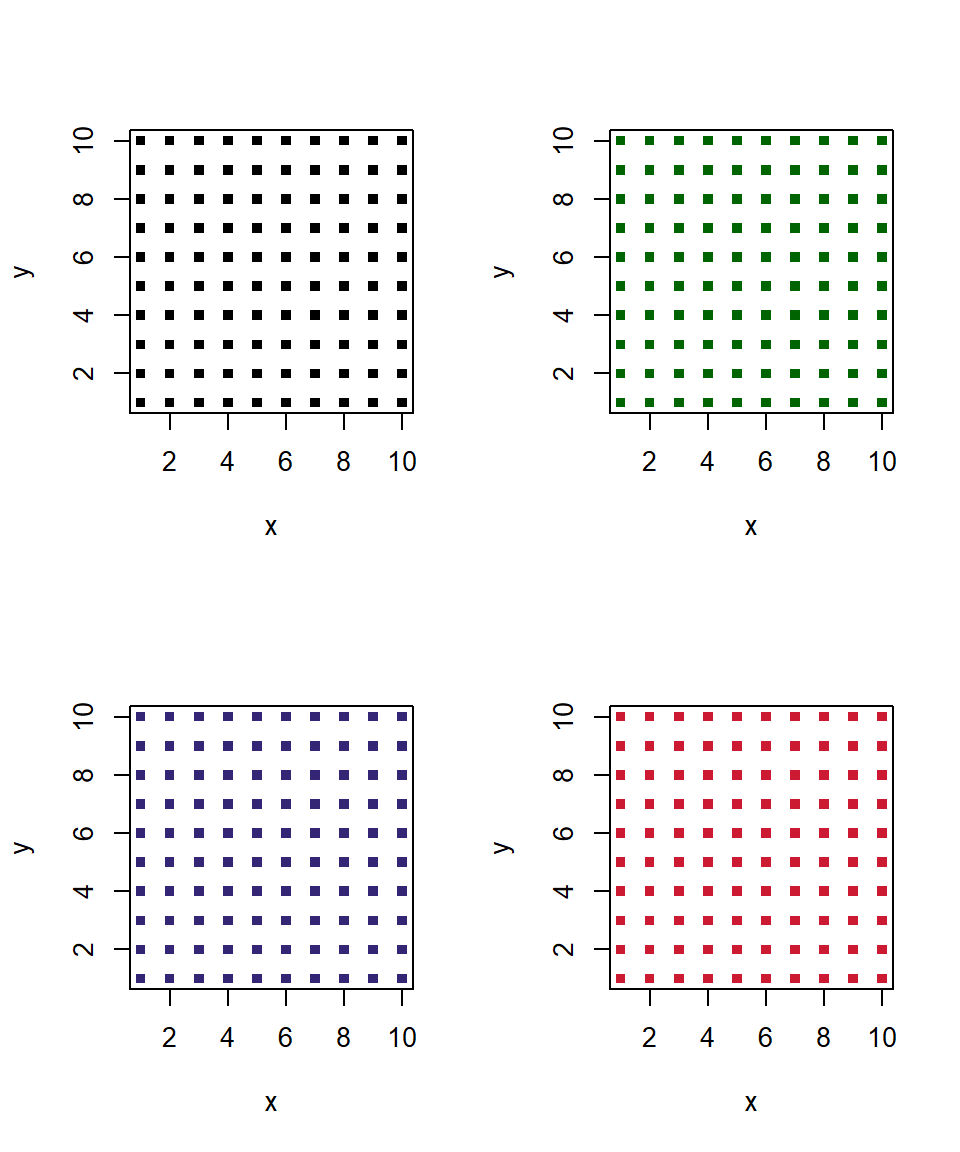
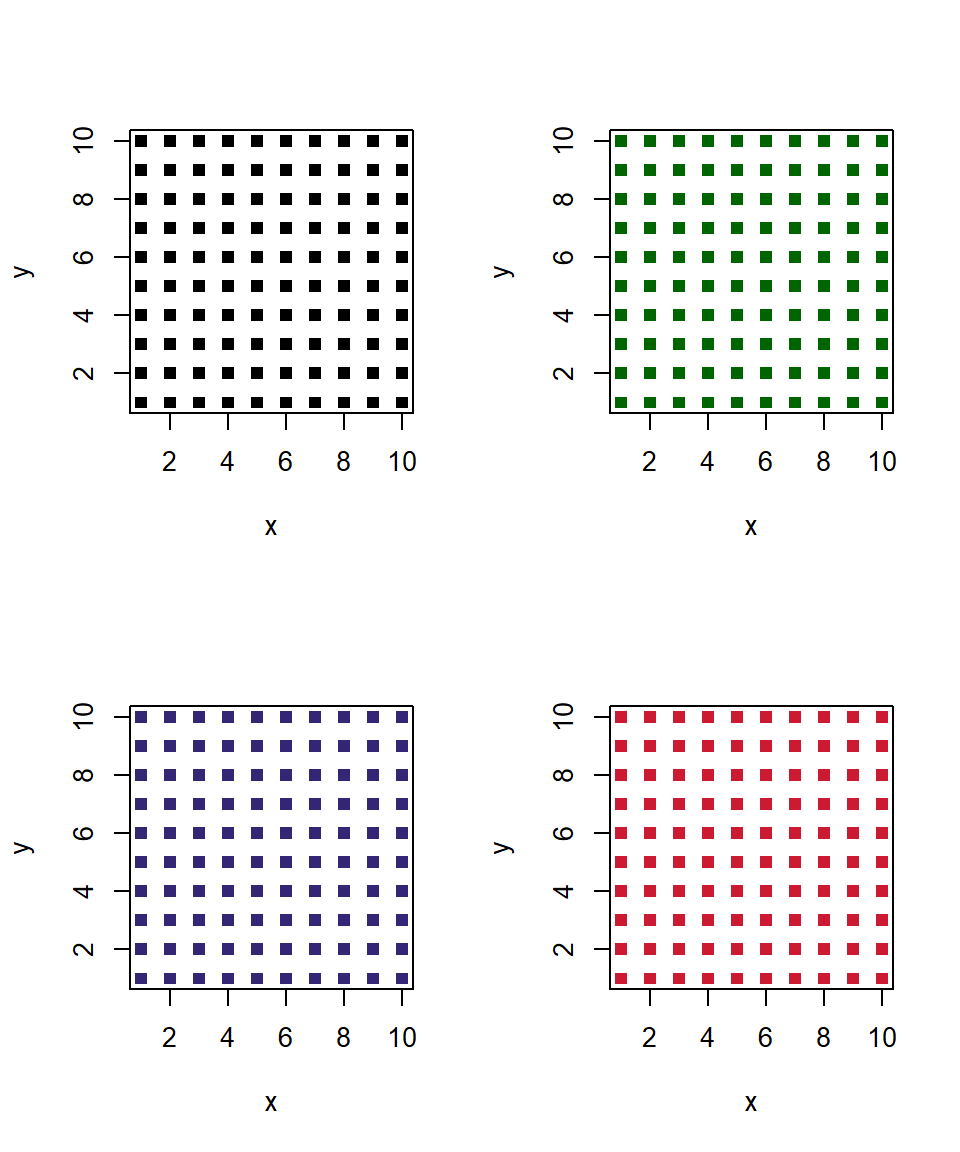
Built site for gh-pages

diff --git a/ADR-2_packages_plot.html b/ADR-2_packages_plot.html
@@ -261,7 +261,7 @@ Diego Nieto Lugilde
 <pre><code>package 'openxlsx' successfully unpacked and MD5 sums checked
 
 The downloaded binary packages are in
-    C:\Users\Diego\AppData\Local\Temp\RtmpA5spHU\downloaded_packages</code></pre>
+    C:\Users\Diego\AppData\Local\Temp\RtmpCg0tpi\downloaded_packages</code></pre>
 </div>
 </div>
 </section>
@@ -295,7 +295,7 @@ The downloaded binary packages are in
 <pre><code>package 'devtools' successfully unpacked and MD5 sums checked
 
 The downloaded binary packages are in
-    C:\Users\Diego\AppData\Local\Temp\RtmpA5spHU\downloaded_packages</code></pre>
+    C:\Users\Diego\AppData\Local\Temp\RtmpCg0tpi\downloaded_packages</code></pre>
 </div>
 <div class="sourceCode cell-code" id="cb6"><pre class="sourceCode numberSource r number-lines code-with-copy"><code class="sourceCode r"><span id="cb6-1"><a></a><span class="fu">library</span>(devtools)</span>
 <span id="cb6-2"><a></a></span>
@@ -530,12 +530,12 @@ The downloaded binary packages are in
 <span id="cb18-2"><a></a>y <span class="ot">&lt;-</span> <span class="fu">rep</span>(<span class="dv">1</span><span class="sc">:</span><span class="dv">10</span>, <span class="at">each =</span> <span class="dv">10</span>)</span>
 <span id="cb18-3"><a></a></span>
 <span id="cb18-4"><a></a><span class="fu">par</span>(<span class="at">mfrow =</span> <span class="fu">c</span>(<span class="dv">2</span>, <span class="dv">2</span>))</span>
-<span id="cb18-5"><a></a><span class="fu">plot</span>(x, y, <span class="at">pch =</span> <span class="dv">15</span>, <span class="at">cex =</span> <span class="fl">0.8</span>)</span>
-<span id="cb18-6"><a></a><span class="fu">plot</span>(x, y, <span class="at">pch =</span> <span class="dv">15</span>, <span class="at">cex =</span> <span class="fl">0.8</span>,</span>
+<span id="cb18-5"><a></a><span class="fu">plot</span>(x, y, <span class="at">pch =</span> <span class="dv">15</span>)</span>
+<span id="cb18-6"><a></a><span class="fu">plot</span>(x, y, <span class="at">pch =</span> <span class="dv">15</span>,</span>
 <span id="cb18-7"><a></a>     <span class="at">col =</span> <span class="st">"dark green"</span>)</span>
-<span id="cb18-8"><a></a><span class="fu">plot</span>(x, y, <span class="at">pch =</span> <span class="dv">15</span>, <span class="at">cex =</span> <span class="fl">0.8</span>,</span>
+<span id="cb18-8"><a></a><span class="fu">plot</span>(x, y, <span class="at">pch =</span> <span class="dv">15</span>,</span>
 <span id="cb18-9"><a></a>     <span class="at">col =</span> <span class="st">"#352575"</span>)</span>
-<span id="cb18-10"><a></a><span class="fu">plot</span>(x, y, <span class="at">pch =</span> <span class="dv">15</span>, <span class="at">cex =</span> <span class="fl">0.8</span>,</span>
+<span id="cb18-10"><a></a><span class="fu">plot</span>(x, y, <span class="at">pch =</span> <span class="dv">15</span>,</span>
 <span id="cb18-11"><a></a>     <span class="at">col =</span> <span class="fu">rgb</span>(<span class="fl">0.8</span>,<span class="fl">0.1</span>,<span class="fl">0.2</span>))</span></code><button title="Copy to Clipboard" class="code-copy-button"><i class="bi"></i></button></pre></div>
 </div><div class="column">
 <div class="cell-output-display">
